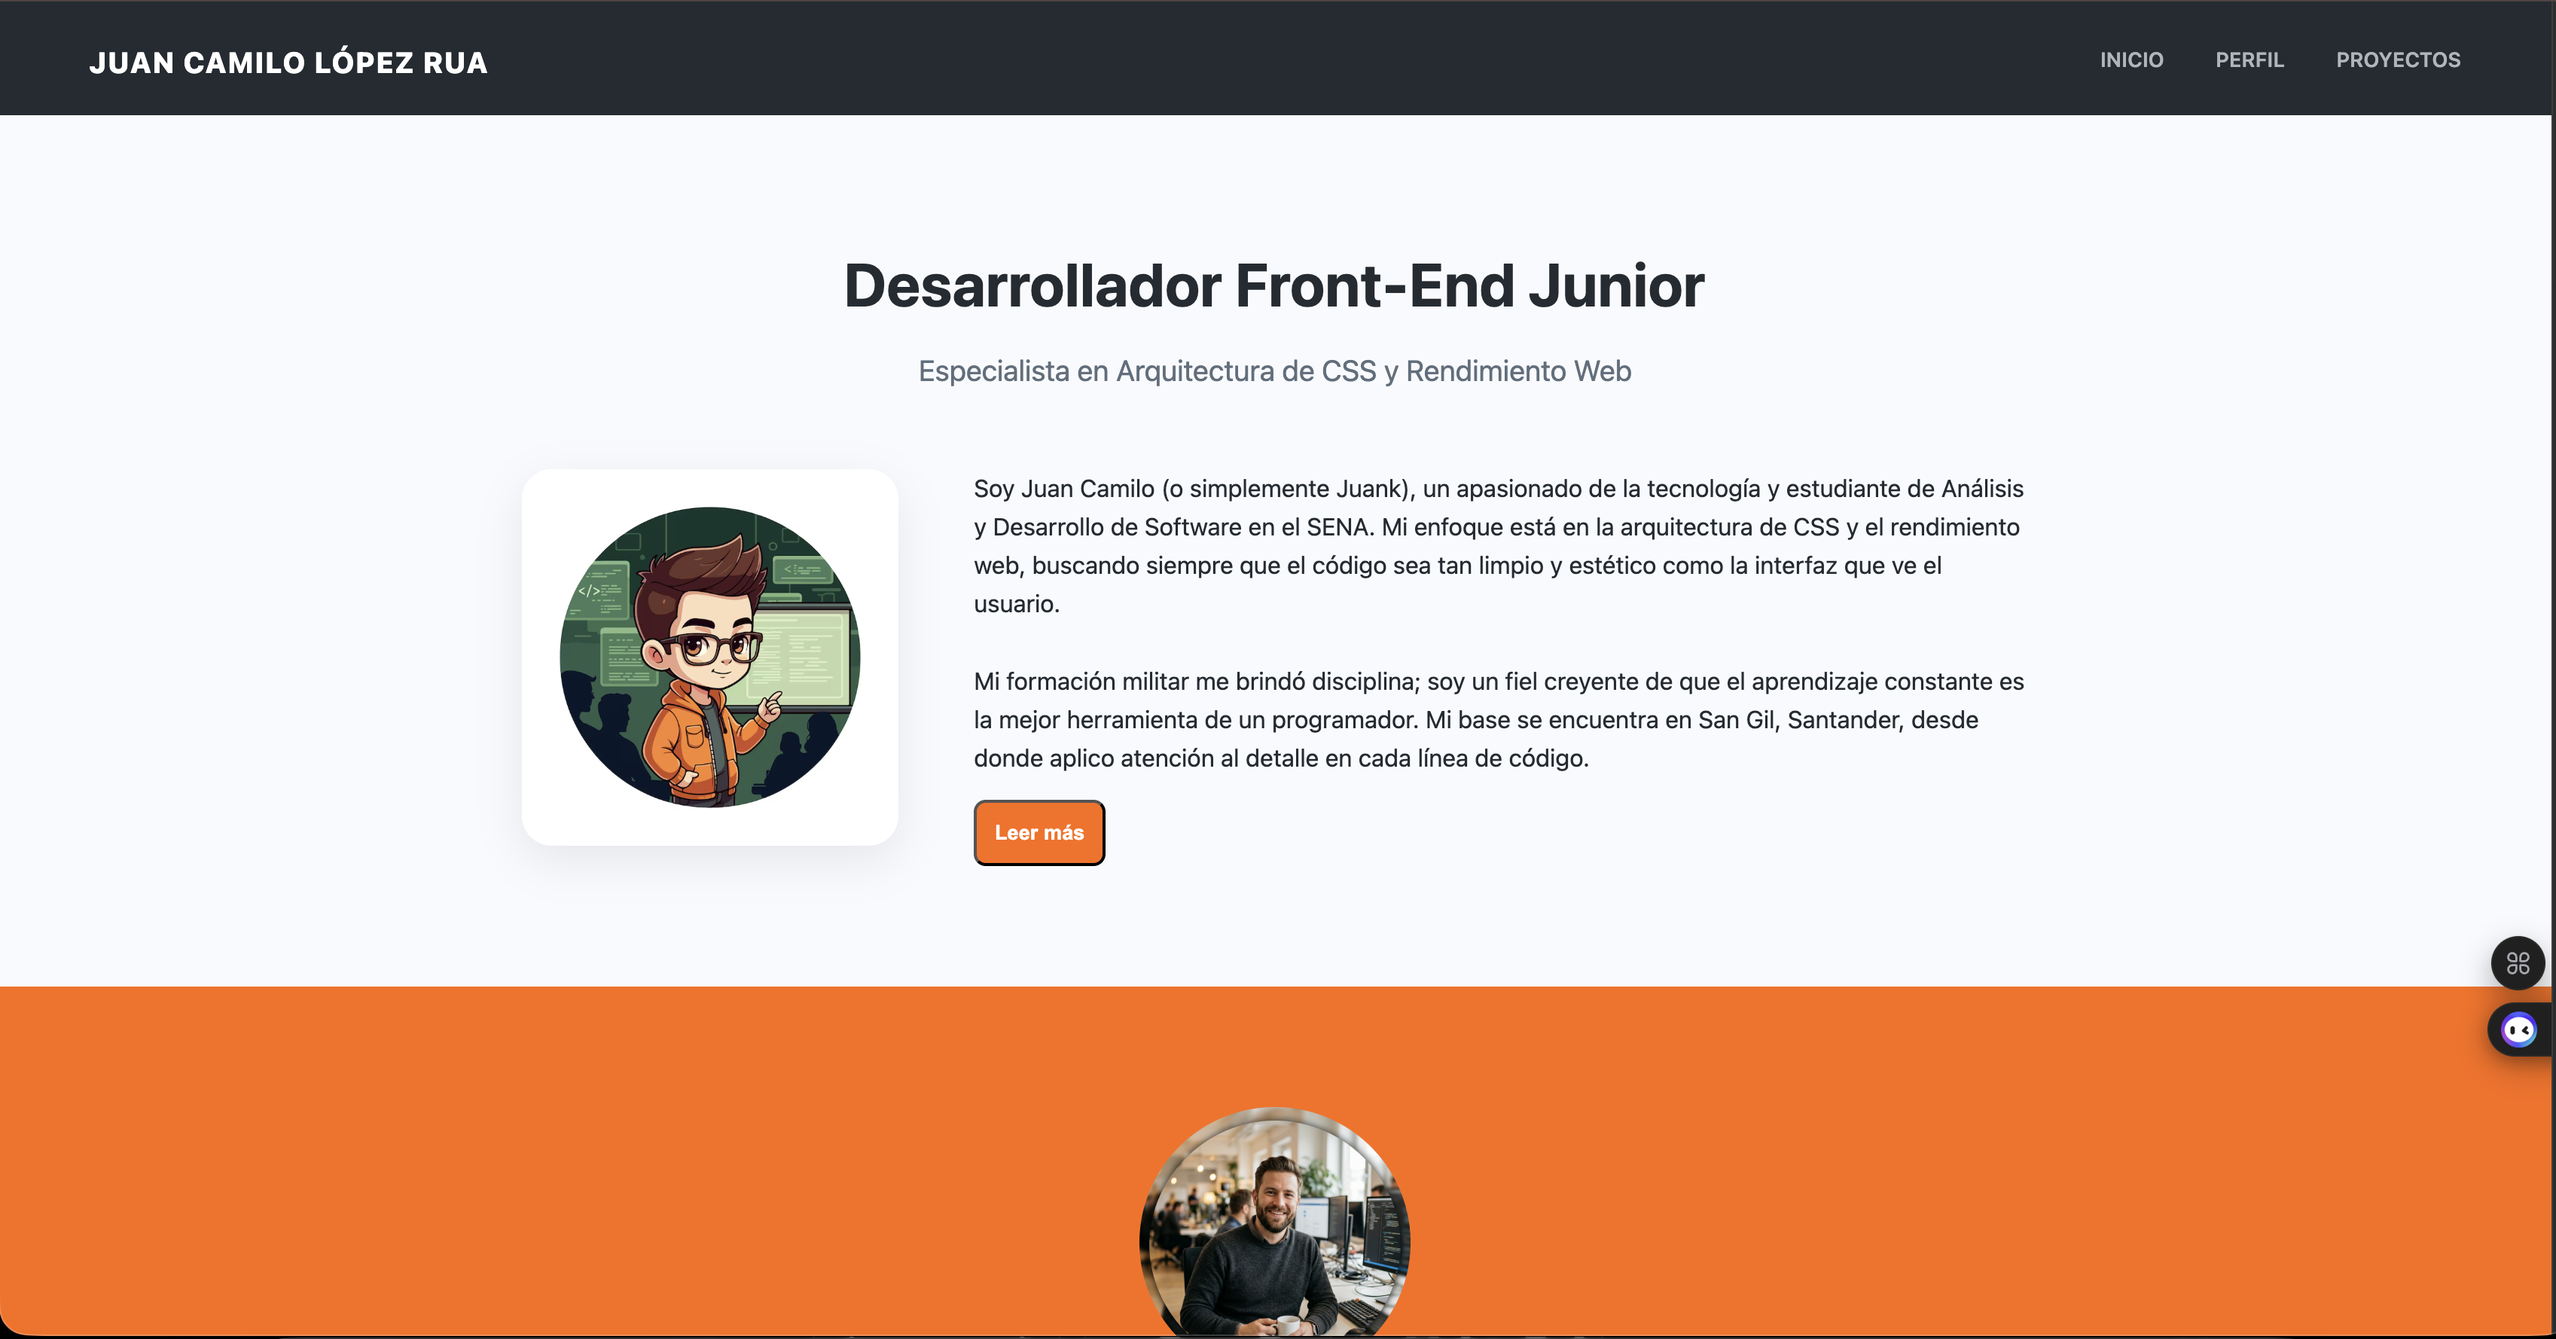
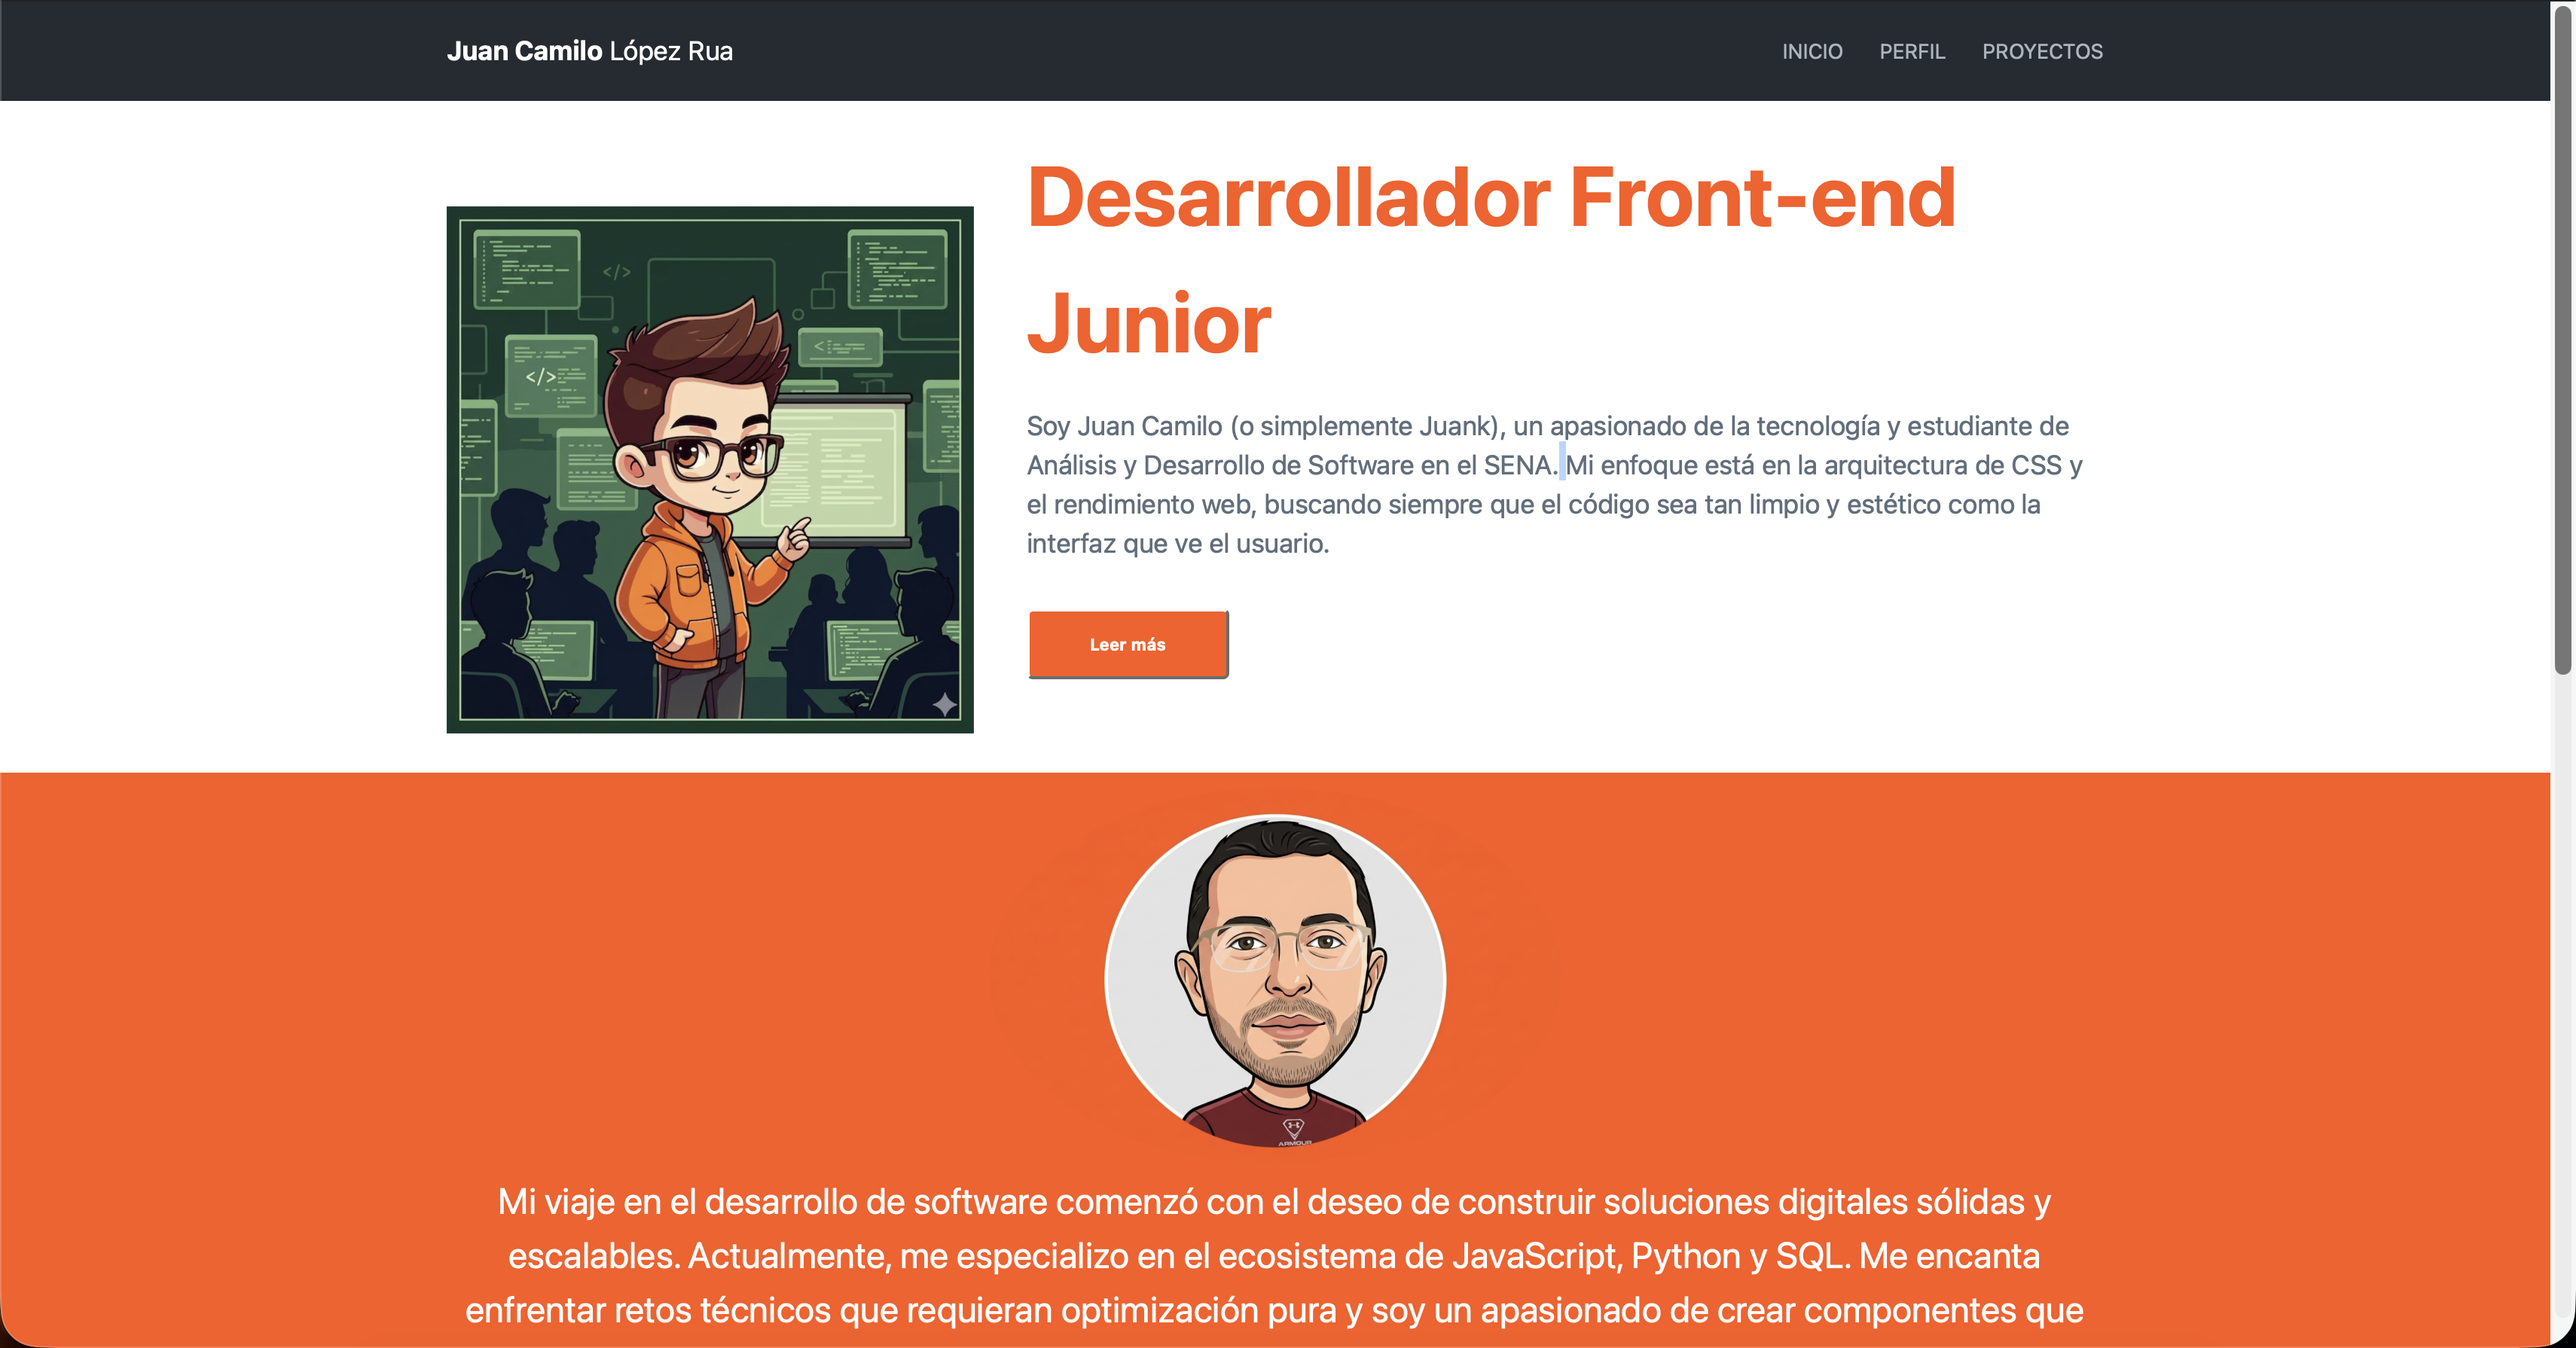
Reajustes

diff --git a/ReplicaPagina/index.html b/ReplicaPagina/index.html
@@ -42,7 +42,7 @@
 
             <section id="perfil" class="seccion-perfil">
                 <div class="contenedor">
-                    <img src="./Profile.png" alt="Avatar" class="perfil-avatar">
+                    <img src="Profile.png" alt="Avatar" class="perfil-avatar">
                     <div class="perfil-info">
                         <p>Mi viaje en el desarrollo de software comenzó con el deseo de construir soluciones digitales sólidas y escalables. Actualmente, me especializo en el ecosistema de JavaScript, Python y SQL. Me encanta enfrentar retos técnicos que requieran optimización pura y soy un apasionado de crear componentes que no dependan exclusivamente de librerías, sino de un profundo entendimiento del estándar web.
                         </p>

diff --git a/ReplicaPagina/style.css b/ReplicaPagina/style.css
@@ -39,9 +39,6 @@ header {
     padding: 20px 0 20px 0;
 }
 
-header .contenedor{
-    margin-left: 180px;
-}
 
 .header-name {
     float: left;
@@ -78,9 +75,8 @@ header .contenedor{
 }
 
 .img-encabezado{
-    width: 150%;
-    padding-top: 100px;
-    /* max-width: 300px; */
+    width: 350px;
+    padding-top: 50px;
 }
 
 .hero-der{
@@ -217,5 +213,5 @@ footer {
 footer .contenedor{
     width: 90%;
     max-width: 1100px;
-    margin-left: 138px;
+    margin-right: 70px;
 }
